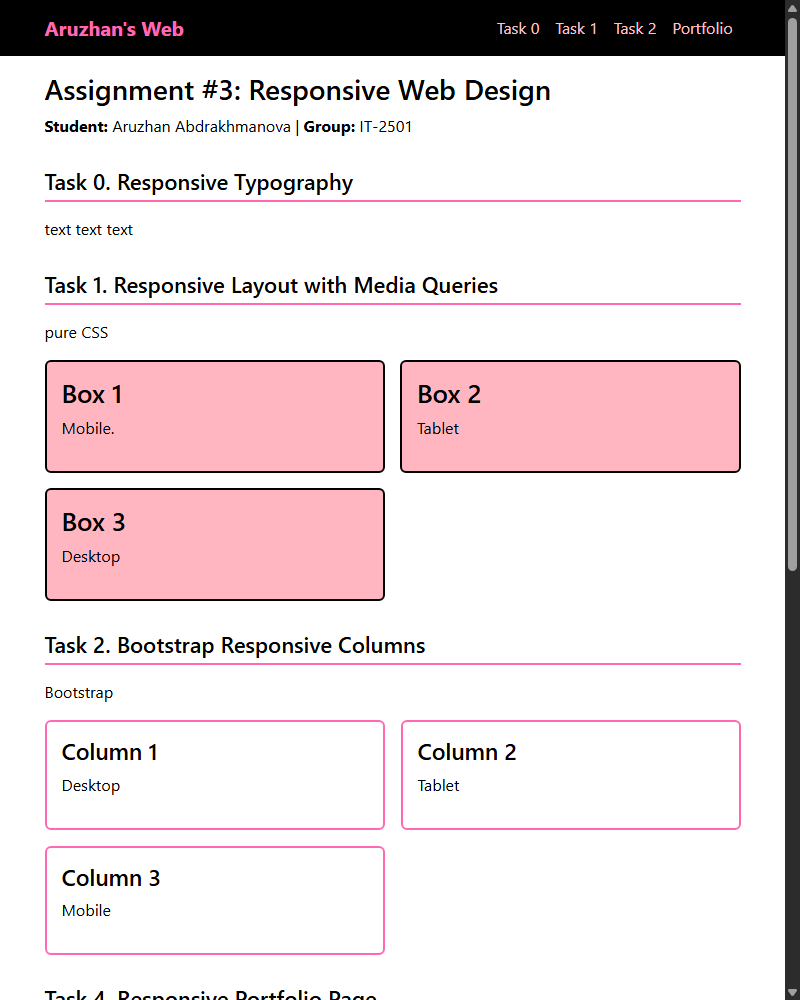
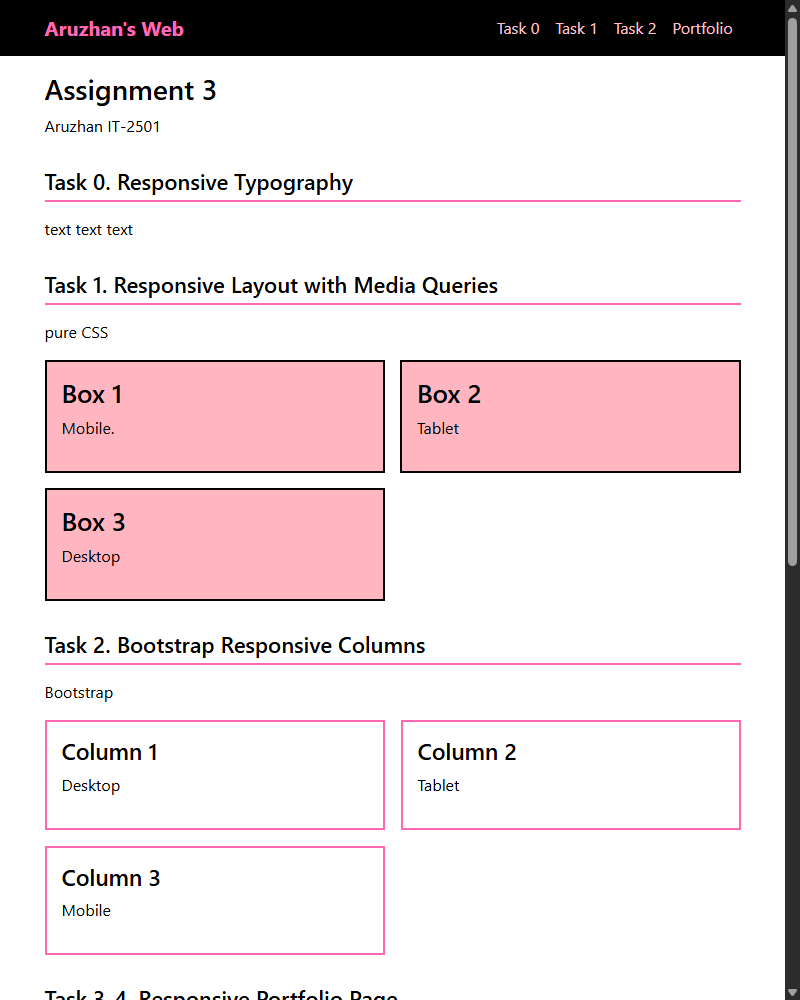
Remove border-radius to make all box corners straight

Changed region(s): [[0.0625, 0.062, 0.6875, 0.155], [0.0938, 0.992, 0.5, 1.0]]

diff --git a/index.html b/index.html
@@ -68,7 +68,6 @@
         .box {
             background-color: lightpink;
             border: 2px solid black;
-            border-radius: 6px;
             padding: 15px;
             color: black;
         }
@@ -76,7 +75,6 @@
         .col-box {
             background-color: white;
             border: 2px solid hotpink;
-            border-radius: 6px;
             padding: 15px;
             height: 100%;
             color: black;
@@ -85,7 +83,6 @@
         .project-card {
             background-color: white;
             border: 2px solid pink;
-            border-radius: 6px;
             padding: 15px;
             height: 100%;
             color: black;
@@ -96,7 +93,6 @@
             color: pink;
             text-decoration: none;
             padding: 6px 12px;
-            border-radius: 4px;
             font-size: 13px;
             margin-top: 10px;
         }
@@ -109,7 +105,6 @@
         .sidebar-box {
             background-color: lightpink;
             border: 2px solid black;
-            border-radius: 6px;
             padding: 20px;
             color: black;
         }
